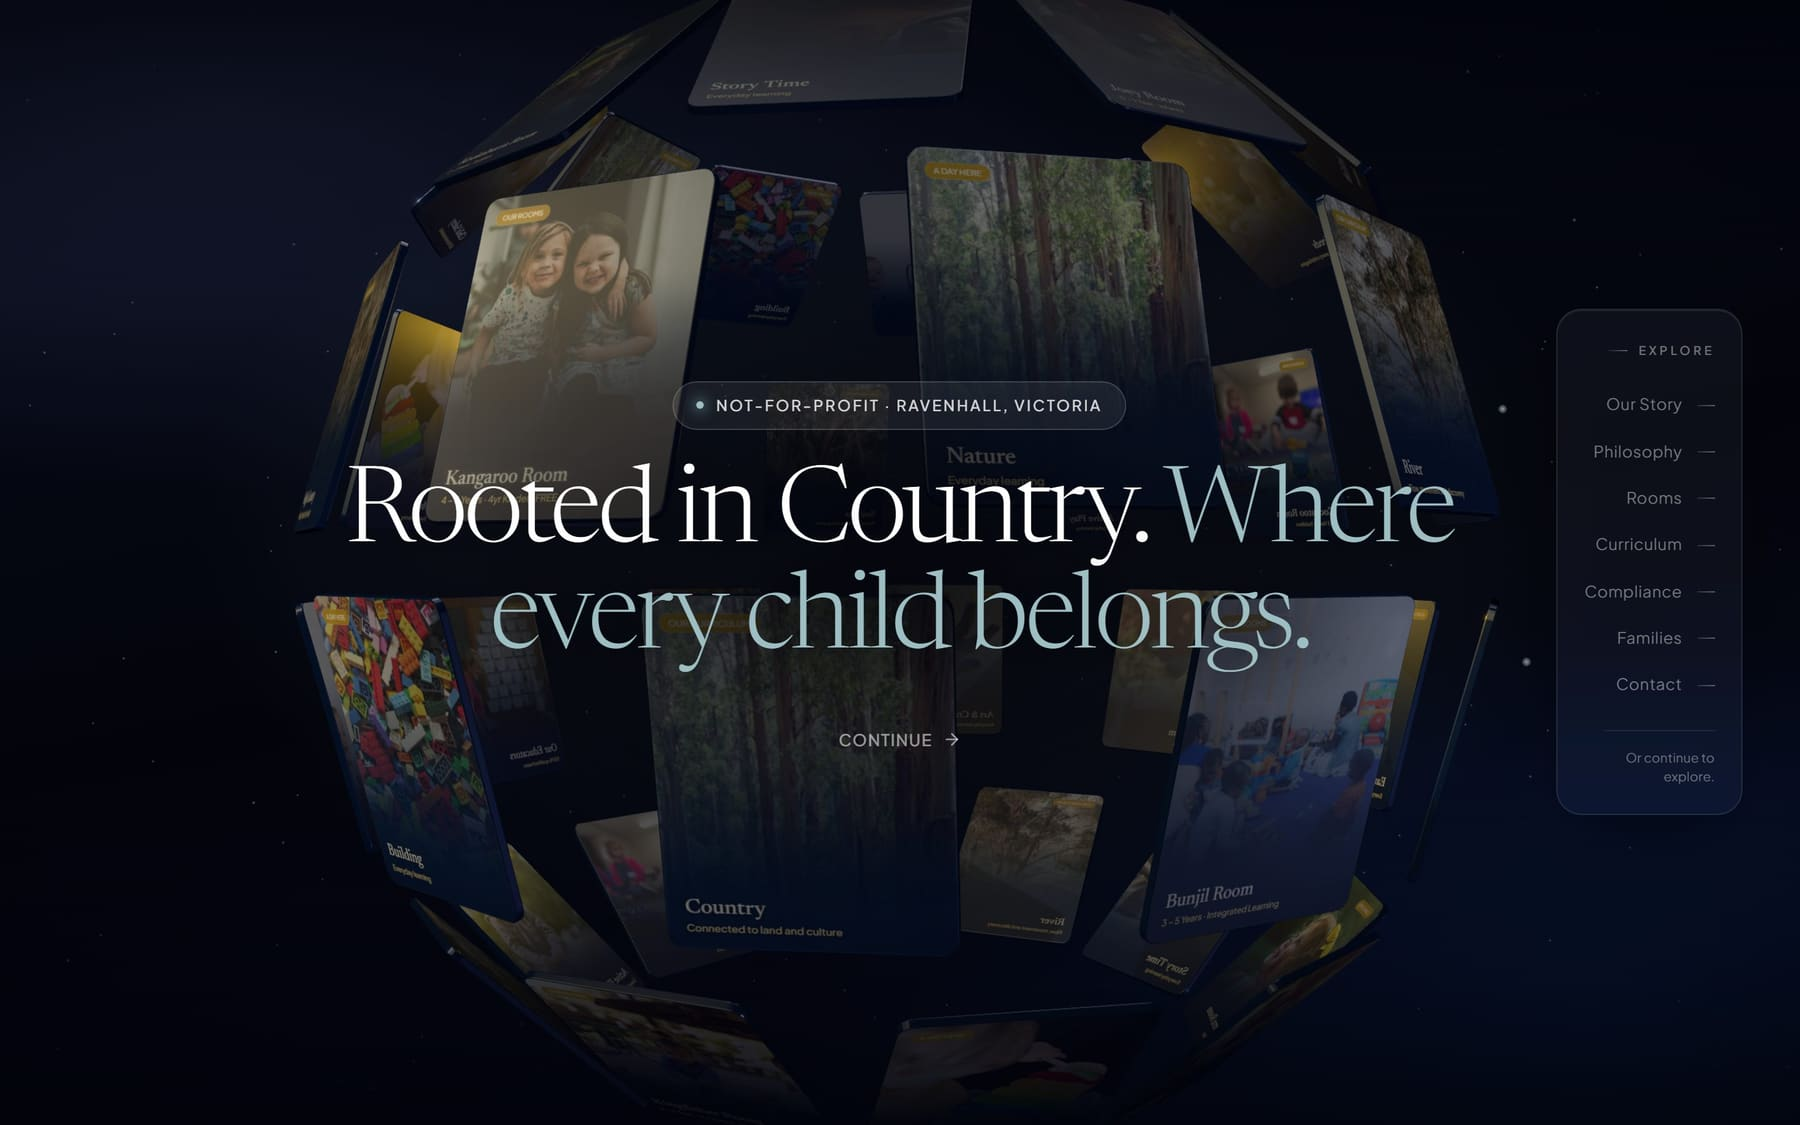
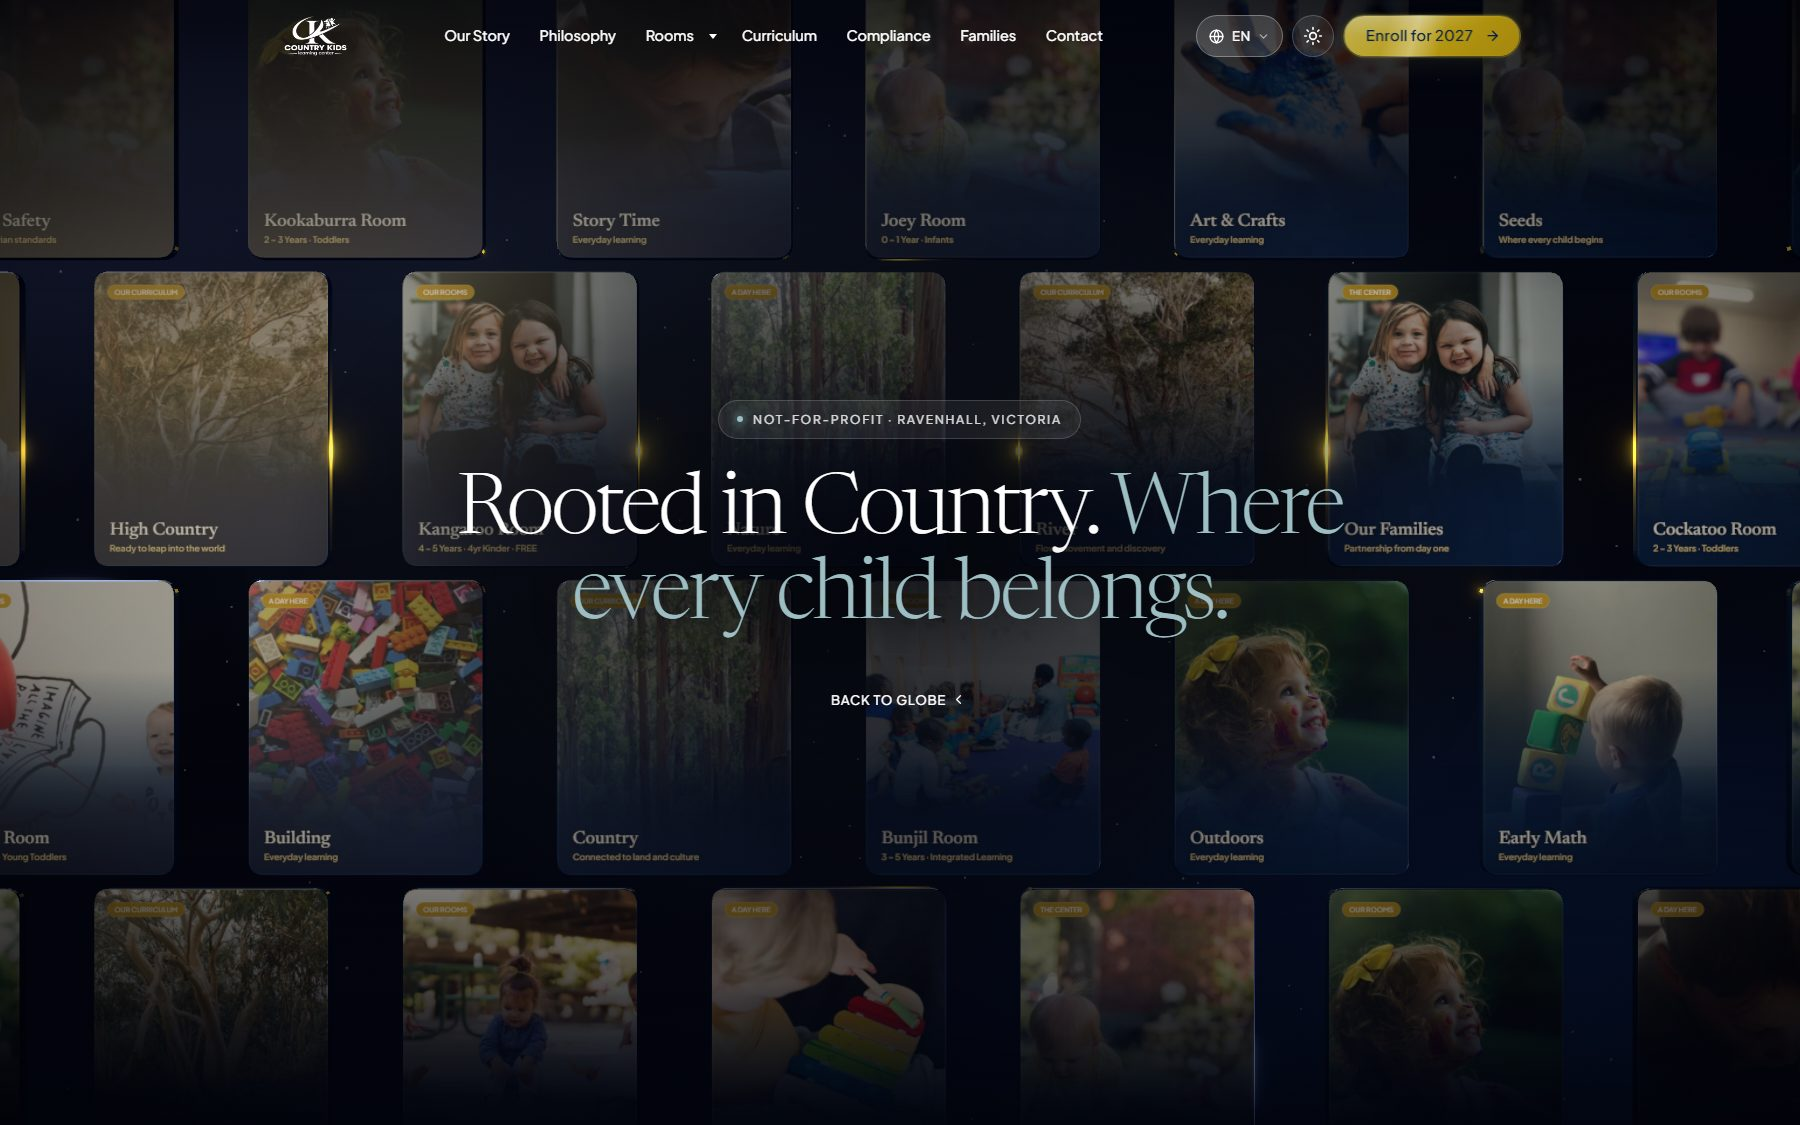
Add WhatsApp and Call actions, drop the US line, recapture Country Kids
Header contact actions
- WhatsApp and Call Us, both pointing at numbers already verified in
  content/site.ts. Nothing was invented: the Call link reads primaryPhone
  from the published list rather than restating a number, and renders only
  when that list has an entry.
- Sized to the space available. Labelled pills from xl, where the bar has
  room; 44px circles from 380px to xl, because at 1024 the logo, five nav
  links, the toggle and the consultation CTA already fill the row. Below
  380px the bar is left alone and the pills appear in the menu panel, which
  is reachable at 320px.
- WhatsApp keeps the site outline treatment rather than its own brand
  green, which would be the only off-palette colour on the page and would
  fight the MIDIS orange two elements away.

US phone number removed
- Deleted from site.phones, which is the single source every surface reads.
  The footer, the Organization schema and the thank-you pages all follow
  from it, so the number is gone site-wide rather than hidden in one place.
- The Indian line is now the only published number, and it is the same line
  the WhatsApp links use, so both header actions resolve to one verified
  destination.

Country Kids preview
- Recaptured as the state AFTER the site's Continue control, as asked: the
  globe of cards unfolds into the card wall and the full navigation
  appears. The previous image was the globe itself.
- Captured from the live site at the same 1800x1125 geometry as every other
[…]

diff --git a/midis-landing-page/components/layout/ContactActions.tsx b/midis-landing-page/components/layout/ContactActions.tsx
@@ -1,0 +1,110 @@
+import { callHref, primaryPhone, whatsappHref } from "@/content/site";
+import { cn } from "@/lib/utils";
+
+/**
+ * WhatsApp and Call entry points for the header.
+ *
+ * BOTH DESTINATIONS ARE VERIFIED, NOT INVENTED. They come from
+ * content/site.ts: the WhatsApp link uses the line MIDIS confirmed is
+ * WhatsApp-enabled, and the Call link uses `primaryPhone`, which is read
+ * from the published list rather than written out again. If that list were
+ * ever emptied, `callHref` is `null` and the Call control simply does not
+ * render — a dialler that opens on nothing is worse than no button.
+ *
+ * TWO PRESENTATIONS, ONE SOURCE. `variant="icon"` is the compact circular
+ * pair for the mobile bar; `variant="pill"` is the labelled pair for the
+ * desktop header and the mobile menu panel. Both are 44px minimum targets.
+ *
+ * THEME. Colours are the semantic tokens, so these read correctly in both
+ * themes without a conditional: WhatsApp keeps a quiet outline rather than
+ * its own brand green, which would be the one off-palette colour on the
+ * page and would fight the MIDIS orange two elements away.
+ */
+
+function WhatsAppIcon({ className }: { className?: string }) {
+  return (
+    <svg
+      viewBox="0 0 24 24"
+      fill="currentColor"
+      aria-hidden="true"
+      className={cn("size-[18px] shrink-0", className)}
+    >
+      <path d="M12.04 2c-5.46 0-9.91 4.45-9.91 9.91 0 1.75.46 3.45 1.32 4.95L2.05 22l5.25-1.38a9.87 9.87 0 0 0 4.74 1.21h.01c5.46 0 9.9-4.45 9.9-9.91 0-2.65-1.03-5.14-2.9-7.01A9.82 9.82 0 0 0 12.04 2Zm0 1.67c2.2 0 4.27.86 5.83 2.42a8.2 8.2 0 0 1 2.41 5.83c0 4.54-3.7 8.24-8.25 8.24a8.2 8.2 0 0 1-4.19-1.15l-.3-.18-3.12.82.83-3.04-.2-.31a8.17 8.17 0 0 1-1.26-4.38c0-4.54 3.7-8.25 8.25-8.25Zm-2.3 4.1c-.17 0-.45.07-.69.33-.23.26-.9.88-.9 2.15 0 1.27.92 2.49 1.05 2.66.13.18 1.79 2.73 4.34 3.83.6.26 1.08.42 1.45.53.61.2 1.16.17 1.6.1.49-.07 1.5-.61 1.72-1.21.21-.6.21-1.1.15-1.21-.06-.1-.23-.17-.49-.29-.26-.13-1.5-.74-1.74-.83-.23-.08-.4-.12-.57.13-.17.26-.65.83-.8 1-.14.18-.29.2-.55.07-.26-.13-1.08-.4-2.06-1.27-.76-.68-1.28-1.52-1.42-1.78-.15-.26-.02-.4.11-.52.12-.12.26-.3.39-.46.13-.15.17-.26.26-.44.08-.17.04-.33-.02-.46-.07-.13-.57-1.38-.79-1.89-.2-.49-.4-.42-.55-.43h-.49Z" />
+    </svg>
+  );
+}
+
+function PhoneIcon({ className }: { className?: string }) {
+  return (
+    <svg
+      viewBox="0 0 24 24"
+      fill="none"
+      aria-hidden="true"
+      className={cn("size-[18px] shrink-0", className)}
+    >
+      <path
+        d="M6.3 3.5h2.4l1.5 3.7-1.8 1.3a11.3 11.3 0 0 0 5.1 5.1l1.3-1.8 3.7 1.5v2.4a2 2 0 0 1-2.2 2A15.6 15.6 0 0 1 4.3 5.7a2 2 0 0 1 2-2.2Z"
+        stroke="currentColor"
+        strokeWidth="1.7"
+        strokeLinejoin="round"
+      />
+    </svg>
+  );
+}
+
+/* One shared interaction language for both presentations. */
+const SHARED = cn(
+  "group/contact inline-flex items-center justify-center",
+  "border transition-[background-color,border-color,color,transform]",
+  "duration-[var(--dur-fast)] ease-[var(--ease-out-quart)]",
+  "active:translate-y-px",
+);
+
+export function ContactActions({
+  variant = "pill",
+  className,
+}: {
+  variant?: "pill" | "icon";
+  className?: string;
+}) {
+  const icon = variant === "icon";
+
+  /* Pills match the header button's 48px; icons are a 44px circle. */
+  const shape = icon
+    ? "size-11 rounded-full"
+    : "min-h-12 gap-2 rounded-full px-4 text-[0.9375rem] font-semibold";
+
+  const quiet = cn(
+    "border-fg/20 bg-transparent text-fg",
+    "hover:border-accent/60 hover:bg-accent-soft hover:text-accent-ink",
+  );
+
+  return (
+    <div className={cn("flex items-center gap-2", className)}>
+      <a
+        href={whatsappHref}
+        target="_blank"
+        rel="noopener noreferrer"
+        aria-label="Message MIDIS on WhatsApp"
+        title="Message us on WhatsApp"
+        className={cn(SHARED, shape, quiet)}
+      >
+        <WhatsAppIcon className="transition-transform duration-[var(--dur-fast)] group-hover/contact:scale-110 motion-reduce:transform-none" />
+        {icon ? null : <span>WhatsApp</span>}
+      </a>
+
+      {/* Rendered only when a verified number exists. */}
+      {callHref && primaryPhone ? (
+        <a
+          href={callHref}
+          aria-label={`Call MIDIS on ${primaryPhone.display}`}
+          title={`Call us — ${primaryPhone.display}`}
+          className={cn(SHARED, shape, quiet)}
+        >
+          <PhoneIcon className="transition-transform duration-[var(--dur-fast)] group-hover/contact:-rotate-12 motion-reduce:transform-none" />
+          {icon ? null : <span>Call Us</span>}
+        </a>
+      ) : null}
+    </div>
+  );
+}

diff --git a/midis-landing-page/components/layout/Header.tsx b/midis-landing-page/components/layout/Header.tsx
@@ -4,6 +4,7 @@ import Link from "next/link";
 import { useEffect, useId, useRef, useState } from "react";
 import { Logo } from "./Logo";
 import { ThemeToggle } from "./ThemeToggle";
+import { ContactActions } from "./ContactActions";
 import { Button } from "@/components/ui/Button";
 import { sectionNav } from "@/content/site";
 import { cn } from "@/lib/utils";
@@ -122,6 +123,28 @@ export function Header() {
         </nav>
 
         <div className="flex items-center gap-1 sm:gap-2">
+          {/*
+            CONTACT ACTIONS, SIZED TO THE SPACE THEY HAVE.
+
+            Labelled pills only from `xl`: at 1024 the bar already carries
+            the logo, five nav links, the toggle and the consultation CTA,
+            and two ~120px pills on top of that overflow the container.
+            Between 380px and `xl` the same two actions render as 44px
+            circles instead.
+
+            Below 380px the bar is left alone entirely — logo, toggle and
+            the menu trigger is all that fits at 320px — and the pills
+            appear inside the menu panel, which every visitor can reach.
+          */}
+          <ContactActions
+            variant="pill"
+            className="hidden xl:flex"
+          />
+          <ContactActions
+            variant="icon"
+            className="hidden min-[380px]:flex xl:hidden"
+          />
+
           <ThemeToggle />
           <Button
             href="#estimator"
@@ -202,7 +225,26 @@ export function Header() {
             ))}
           </nav>
 
-          <div className="container-site flex flex-col gap-3 pb-10 pt-4">
+          {/*
+            The contact actions, labelled, inside the panel.
+
+            This is what guarantees they are reachable at 320px, where the
+            bar itself has no room for them.
+
+            `flex-1` alone is not enough to make them equal: a flex item
+            defaults to `min-width: auto`, so the wider label refuses to
+            shrink to the shared basis and the pair lands at 136px and 132px.
+            `min-w-0` lets both reach the same width, which is what matches
+            them to the full-width buttons directly beneath.
+          */}
+          <div className="container-site pt-2">
+            <ContactActions
+              variant="pill"
+              className="w-full gap-3 [&>a]:min-w-0 [&>a]:flex-1"
+            />
+          </div>
+
+          <div className="container-site flex flex-col gap-3 pb-10 pt-3">
             <Button
               href="#estimator"
               size="lg"

diff --git a/midis-landing-page/content/site.ts b/midis-landing-page/content/site.ts
@@ -62,8 +62,18 @@ export const site = {
    * code — it is not a claim about an office. The registered address below
    * is the only location MIDIS states.
    */
+  /*
+   * The US line was removed on MIDIS's instruction (2026-10-19). The Indian
+   * line is now the only published number, and it is the same line the
+   * WhatsApp entry points use — so the header's "Call" and "WhatsApp"
+   * buttons both resolve to a number MIDIS has verified, rather than to two
+   * different ones.
+   *
+   * Still an array rather than a single value: the Organization schema
+   * builds a contactPoint per entry, and a second line can be added back
+   * without touching anything that reads this.
+   */
   phones: [
-    { region: "US", display: "+1 (862) 295-0117", e164: "+18622950117" },
     { region: "IN", display: "+91 97793 20626", e164: "+919779320626" },
   ],
 
@@ -100,6 +110,17 @@ export const site = {
 export const whatsappHref = `https://wa.me/${site.whatsapp}?text=${encodeURIComponent(
   site.whatsappMessage,
 )}`;
+
+/**
+ * The line a "Call us" control dials.
+ *
+ * Read from `site.phones` rather than written out again, so there is exactly
+ * one place a published number can be wrong. If the list is ever emptied,
+ * this is `null` and the header simply renders no Call button — a dialler
+ * that opens on nothing is worse than no button at all.
+ */
+export const primaryPhone = site.phones[0] ?? null;
+export const callHref = primaryPhone ? `tel:${primaryPhone.e164}` : null;
 
 /**
  * Footer navigation, exactly as MIDIS.pdf pages 13–14 list it.

diff --git a/midis-landing-page/content/work.ts b/midis-landing-page/content/work.ts
@@ -72,6 +72,17 @@ export const projects: readonly Project[] = [
       "A not-for-profit early learning centre rooted in Country, where every child belongs. Seven nature-named rooms, a curriculum shaped like the landscape and clear family pathways give the brand warmth and trust.",
     url: "https://www.countrykids.au/",
     host: "countrykids.au",
+    /*
+     * Re-captured 2026-10-19 on MIDIS's instruction.
+     *
+     * The site opens on a video intro, then a globe of cards carrying a
+     * "Continue" control. This preview is the state AFTER that control is
+     * pressed: the globe unfolds into the card wall and the full navigation
+     * appears. The previous capture was the globe itself.
+     *
+     * Same 1800x1125 geometry as every other preview, so the showcase still
+     * never has to crop one differently from another.
+     */
     preview: "/images/work/country-kids.jpg",
   },
   {
